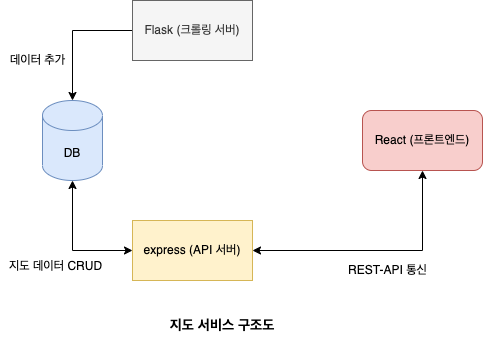
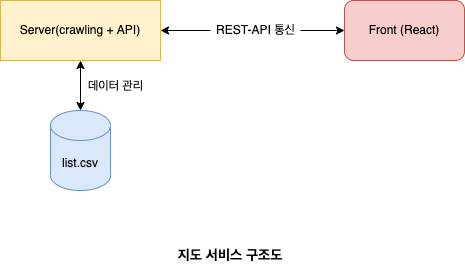
fix: 지도서비스 1탄 이미지 변경 및 내용 변경

diff --git a/content/python-crawling-and-naver-map-1/index.md b/content/python-crawling-and-naver-map-1/index.md
@@ -19,8 +19,8 @@ categories: 지도서비스
 
 > 연세대학교 신촌캠퍼스 맛집 지도 🗺
 
-1. 네이버 지도(v5)에 '연세대학교 신촌캠퍼스 맛집'을 검색하고 데이터를 추출하는 플라스크(Flask) 크롤링서버를 구축한다.
-2. 크롤링서버에서 추출한 데이터를 프론트의 요청에 맞게 REST-API로 전달한다.
+1. 네이버 지도(v5)에 '연세대학교 신촌캠퍼스 맛집'을 검색하고 데이터를 추출하는 플라스크(Flask)크롤링서버를 구축한다.
+2. 추출한 데이터를 프론트의 요청에 맞게 REST-API로 전달한다.
 3. 전달받은 지도 데이터를 기능에 맞게 화면에 보여준다.
 
 ## 2. 개발 환경 구성
